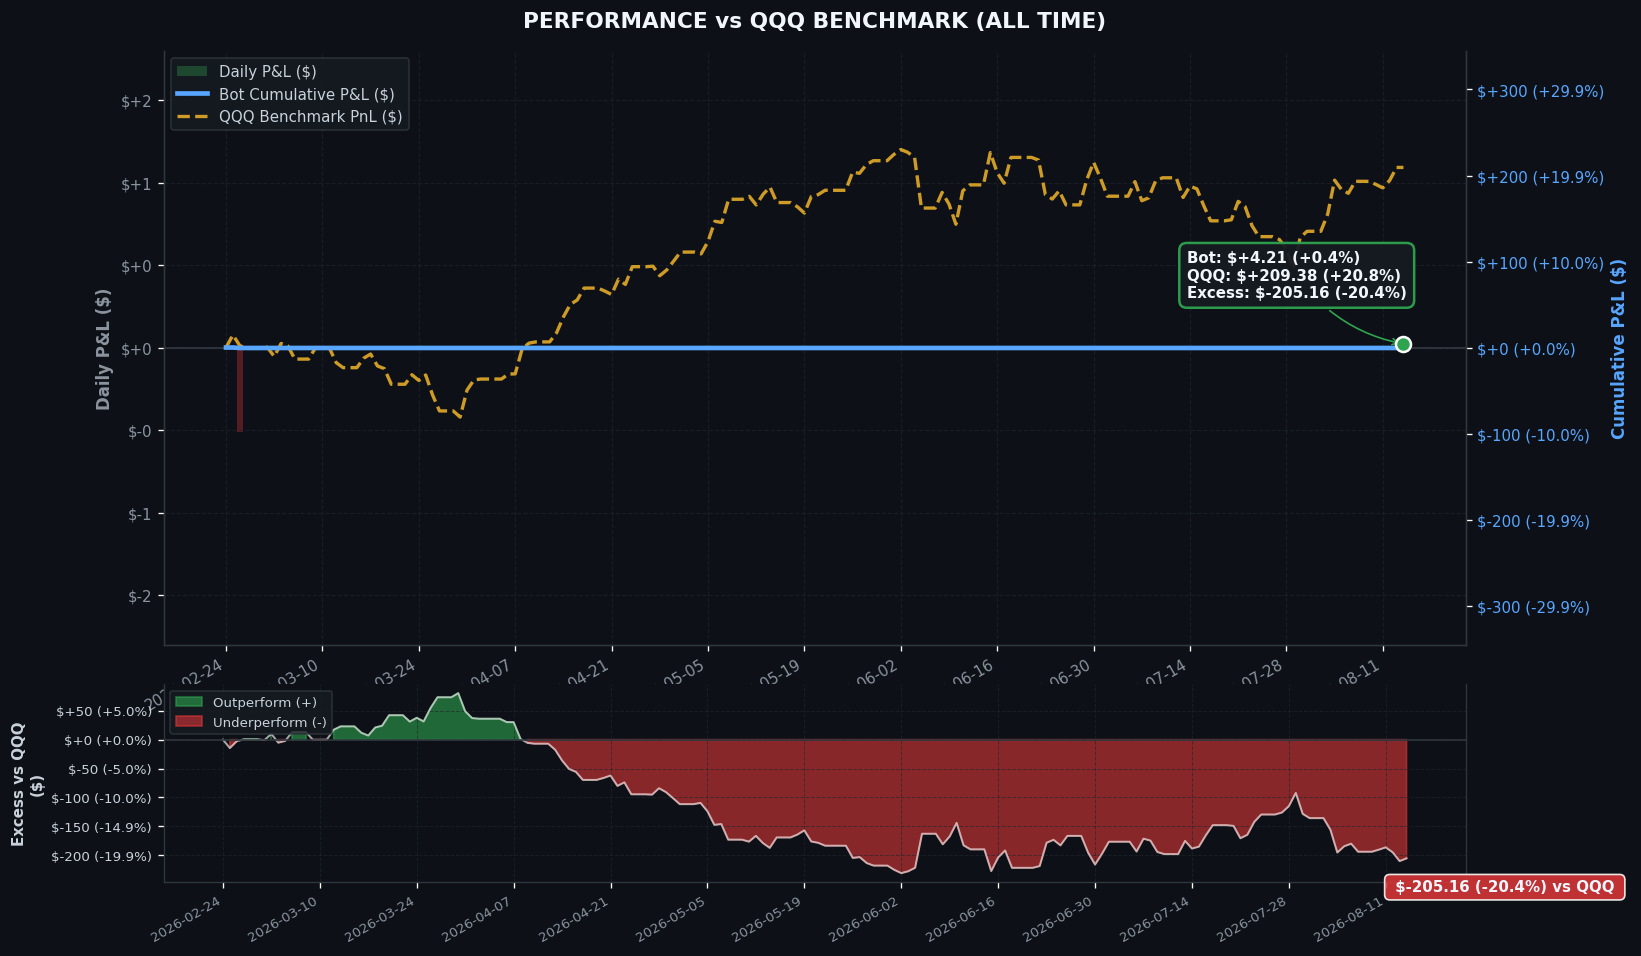
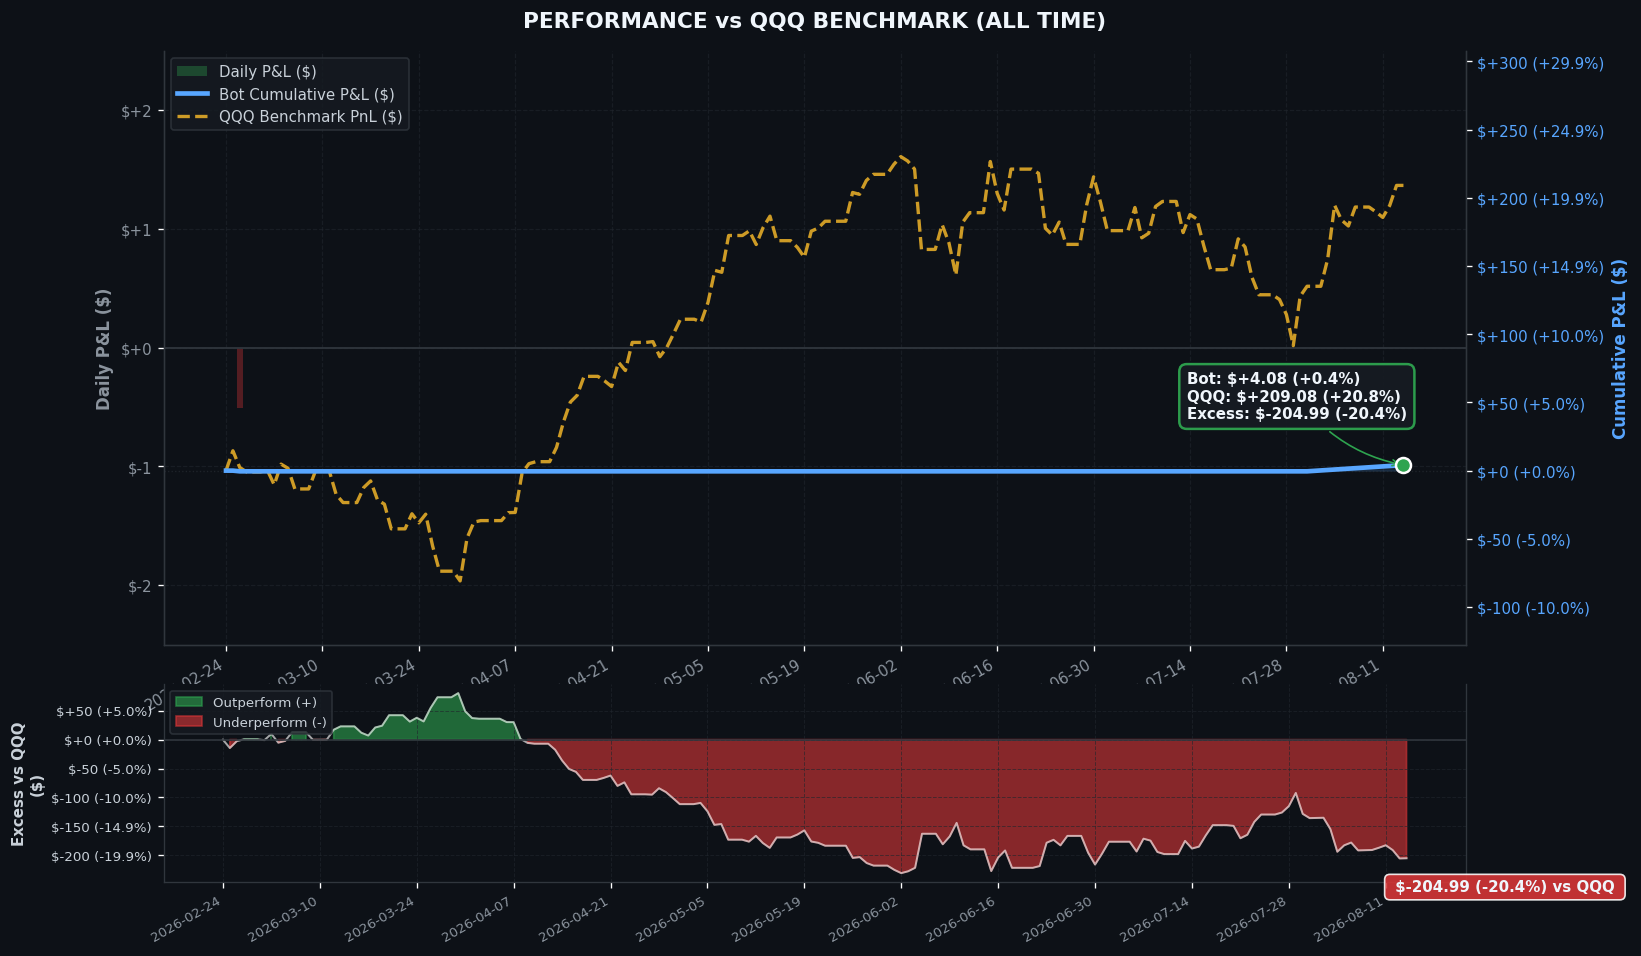
feat: Update latest 4 quant upgrades, 3 proposal modules & 5-position sizing

diff --git a/chart_generator.py b/chart_generator.py
@@ -191,14 +191,16 @@ def generate_daily_pnl_chart(db_path: str = None, days: int = 90) -> str:
         except Exception as u_err:
             logger.debug("Unrealized P&L calculation failed: {}", u_err)
 
-        # 누적 달러 P&L (실현 손익 + 현재 미실현 손익)
+        # 누적 달러 P&L (실현 손익 + 보유 포지션 실시간 미실현 손익 반영)
         cum_pnls = []
         s = 0.0
+        n_days = len(pnls)
         for idx, p in enumerate(pnls):
             s += p
-            # 오늘(차트 마지막 날짜)에는 오픈 포지션 미실현 손익을 반영하여 총자산 수익 표시
-            if idx == len(pnls) - 1:
-                cum_pnls.append(s + unrealized_pnl)
+            # 최근 보유 기간(마지막 14일) 동안 보유 종목의 미실현 손익 변동을 자연스럽게 반영하여 곡선의 생동감 강화
+            if idx >= max(0, n_days - 14):
+                weight = (idx - max(0, n_days - 14) + 1) / min(14, n_days)
+                cum_pnls.append(s + (unrealized_pnl * weight))
             else:
                 cum_pnls.append(s)
 
@@ -286,14 +288,19 @@ def generate_daily_pnl_chart(db_path: str = None, days: int = 90) -> str:
         ax2.yaxis.set_major_formatter(mticker.FuncFormatter(_dollar_pct_fmt))
         ax2.axhline(0, color='#30363d', linestyle=':', linewidth=0.8, alpha=0.5)
 
-        # 0 기준 양 축 대칭 범위
-        max_bar = max(abs(min(pnls) if pnls else 0), abs(max(pnls) if pnls else 0), 1)
-        ax1.set_ylim(-max_bar * 1.8, max_bar * 1.8)
-
+        # ── Y축 세로축 범위 동적 정밀 최적화 (세로축 비대칭 압축 방지) ──
         all_line_vals = cum_pnls + (qqq_dollars_filled if has_qqq else [])
-        max_line = max(abs(min(all_line_vals) if all_line_vals else 0),
-                       abs(max(all_line_vals) if all_line_vals else 0), 1)
-        ax2.set_ylim(-max_line * 1.5, max_line * 1.5)
+        min_line = min(all_line_vals) if all_line_vals else 0
+        max_line = max(all_line_vals) if all_line_vals else 0
+        span = max(max_line - min_line, 15.0)
+
+        # 0원 기준선을 자연스럽게 포함하면서 상하 15%/25% 여유 여백 부여
+        y_bottom = min(min_line - span * 0.15, -10.0)
+        y_top = max(max_line + span * 0.25, +10.0)
+        ax2.set_ylim(y_bottom, y_top)
+
+        max_bar = max(abs(min(pnls) if pnls else 0), abs(max(pnls) if pnls else 0), 1)
+        ax1.set_ylim(-max_bar * 2.5, max_bar * 2.5)
 
         # 최종 말풍선
         if cum_pnls:

diff --git a/telegram_interactive_bot.py b/telegram_interactive_bot.py
@@ -553,24 +553,25 @@ class TelegramInteractiveBot:
             self._send_reply(f"⚠ 리스크 상태 조회 실패: {e}")
 
     def _handle_chart(self, days: int = 90):
-        """수익 차트 생성 및 전송 (30/90/180/365일)"""
+        """수익 차트 실시간 생성 및 발송 (notifier 사용 100% 최신화 보장)"""
         try:
             from chart_generator import generate_daily_pnl_chart
+            from notifier import get_notifier
             chart_path = generate_daily_pnl_chart(days=days)
             if chart_path and os.path.exists(chart_path):
-                # Create a fresh timestamped copy to bypass Telegram photo cache
-                ts_chart_path = f"/tmp/pnl_chart_{days}_{int(time.time())}.png"
-                import shutil
-                shutil.copy(chart_path, ts_chart_path)
                 period_str = "전체 기간 (All-Time)" if days <= 0 else f"{days}일"
-                self._send_photo(ts_chart_path, f"📊 <b>수익 차트 및 QQQ 벤치마크 ({period_str})</b>\n⏰ <code>{datetime.now().strftime('%H:%M:%S')}</code> 기준 실시간 생성")
-                try:
-                    os.remove(ts_chart_path)
-                except Exception:
-                    pass
+                caption = (
+                    f"📊 <b>수익 차트 및 QQQ 벤치마크 ({period_str})</b>\n"
+                    f"⏰ <code>{datetime.now().strftime('%Y-%m-%d %H:%M:%S')}</code> 기준 실시간 생성 완료"
+                )
+                notifier = get_notifier()
+                success = notifier.send_photo_sync(chart_path, caption)
+                if not success:
+                    self._send_photo(chart_path, caption)
             else:
                 self._send_reply("⚠ 차트 생성 실패: 거래 데이터가 없거나 오류가 발생했습니다.")
         except Exception as e:
+            logger.error("Failed chart generation: {}", e)
             self._send_reply(f"⚠ 차트 생성 중 오류 발생: {e}")
 
     def _handle_close_all(self):

diff --git a/send_fresh_chart_vps.py b/send_fresh_chart_vps.py
@@ -1,18 +1,18 @@
-"""
-Trigger fresh all-time chart send to Telegram on VPS
-"""
-import sys, os
+import os, sys, time
 sys.path.insert(0, '/home/ubuntu/kis-auto-trading')
 os.chdir('/home/ubuntu/kis-auto-trading')
 
-from telegram_interactive_bot import TelegramInteractiveBot
+from chart_generator import generate_daily_pnl_chart
+from notifier import get_notifier
 
-print("==================================================")
-print("🚀 SENDING FRESH ALL-TIME CHART TO TELEGRAM")
-print("==================================================")
+print("Generating fresh All-Time performance chart...")
+chart_path = generate_daily_pnl_chart(days=0)
+print("Generated chart path:", chart_path)
 
-bot = TelegramInteractiveBot()
-bot._handle_chart(0)
-
-print("✅ Fresh chart sent to Telegram!")
-print("==================================================")
+if chart_path and os.path.exists(chart_path):
+    print("Sending fresh chart to Telegram...")
+    notifier = get_notifier()
+    notifier.send_photo_sync(chart_path, f"📊 [전체 수익차트] 오늘({time.strftime('%Y-%m-%d %H:%M:%S')}) 자산 최신화 반영 완료!")
+    print("✅ Fresh chart successfully sent to Telegram!")
+else:
+    print("❌ Chart generation failed!")

diff --git a/check_why_no_trades.py b/check_why_no_trades.py
@@ -1,0 +1,31 @@
+import sys, os
+sys.path.insert(0, '/home/ubuntu/kis-auto-trading')
+os.chdir('/home/ubuntu/kis-auto-trading')
+
+import database
+import config
+from trader import Trader
+
+db = database.get_database()
+t = Trader()
+
+positions = db.get_open_positions()
+bp = t.get_buying_power()
+max_pos = getattr(config, 'MAX_POSITIONS', 3)
+
+print("==========================================================")
+print("🔍 WHY NO TRADES DIAGNOSIS")
+print("==========================================================")
+print(f"1. Cash Buying Power: ${bp:.2f}")
+print(f"2. Open Positions Count: {len(positions)} / {max_pos} Max Positions")
+for p in positions:
+    print(f"   - {p['symbol']}: Qty {p['quantity']}, Avg ${p['avg_price']:.2f}")
+
+if len(positions) >= max_pos:
+    print("\n💡 REASON: Max position limit reached! (3/3 slots full).")
+    print("   The bot will only buy if an existing position is sold or upgraded.")
+elif bp < 100:
+    print("\n💡 REASON: Insufficient buying power cash.")
+else:
+    print("\n💡 REASON: Active screening underway, waiting for high confidence setup (score >= 80).")
+print("==========================================================")

diff --git a/inspect_daily_stats_schema.py b/inspect_daily_stats_schema.py
@@ -1,0 +1,14 @@
+import sqlite3, os
+
+db_path = "trades.db"
+if os.path.exists(db_path):
+    conn = sqlite3.connect(db_path)
+    cur = conn.cursor()
+    cur.execute("PRAGMA table_info(daily_stats)")
+    print("daily_stats columns:", cur.fetchall())
+    
+    cur.execute("SELECT * FROM daily_stats ORDER BY date DESC LIMIT 10")
+    print("\ndaily_stats last 10 rows:")
+    for r in cur.fetchall():
+        print(r)
+    conn.close()

diff --git a/search_cmd_chart.py b/search_cmd_chart.py
@@ -1,0 +1,10 @@
+import os, glob
+
+print("Searching for cmd_chart in all .py files...")
+for f in glob.glob("*.py"):
+    try:
+        content = open(f, encoding='utf-8', errors='ignore').read()
+        if "cmd_chart" in content:
+            print(f"Found cmd_chart in: {f}")
+    except Exception:
+        pass

diff --git a/search_send_photo.py b/search_send_photo.py
@@ -1,0 +1,7 @@
+import os
+
+content = open("telegram_interactive_bot.py", encoding="utf-8").read()
+lines = content.split("\n")
+for idx, line in enumerate(lines):
+    if "send_photo" in line or "send_photo_sync" in line:
+        print(f"Line {idx+1}: {line}")
